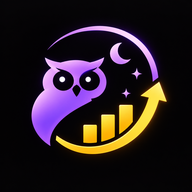
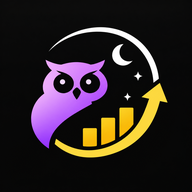
フクリのアイコンを別案に変更
Claude-Session: https://claude.ai/code/session_018AqJERWC1s4hhn7m3mm7wf

Changed region(s): [[0.1562, 0.125, 0.875, 0.8438], [0.6875, 0.3438, 0.75, 0.4375]]

diff --git a/index.html b/index.html
@@ -12,8 +12,8 @@
 <meta name="apple-mobile-web-app-status-bar-style" content="black">
 <meta name="apple-mobile-web-app-title" content="フクリ">
 <meta name="theme-color" content="#070908">
-<link rel="apple-touch-icon" href="apple-touch-icon.png?v=10">
-<link rel="icon" href="icon-192.png?v=10">
+<link rel="apple-touch-icon" href="apple-touch-icon.png?v=11">
+<link rel="icon" href="icon-192.png?v=11">
 <link rel="manifest" href="manifest.webmanifest?v=3">
 <style>
 :root{
@@ -448,7 +448,7 @@ body[data-tab=pl] main,body[data-tab=fx] main{overflow:hidden!important}
 <body>
 <div class="sky"><i></i><i></i><i></i></div>
 <div class="fadeT"></div><div class="fadeB"></div>
-<div class="gate glass" id="gate"><div><img src="icon-512.png?v=10" alt=""><h2>フクリ</h2><p class="cap" id="gmsg">合い鍵の入ったリンクから開いてください。<br>自分専用のアプリです。</p><div id="gbtn"></div></div></div>
+<div class="gate glass" id="gate"><div><img src="icon-512.png?v=11" alt=""><h2>フクリ</h2><p class="cap" id="gmsg">合い鍵の入ったリンクから開いてください。<br>自分専用のアプリです。</p><div id="gbtn"></div></div></div>
 <div class="toast glass" id="toast"></div>
 <main id="main">
   <section class="page on" id="p-todo"></section>
